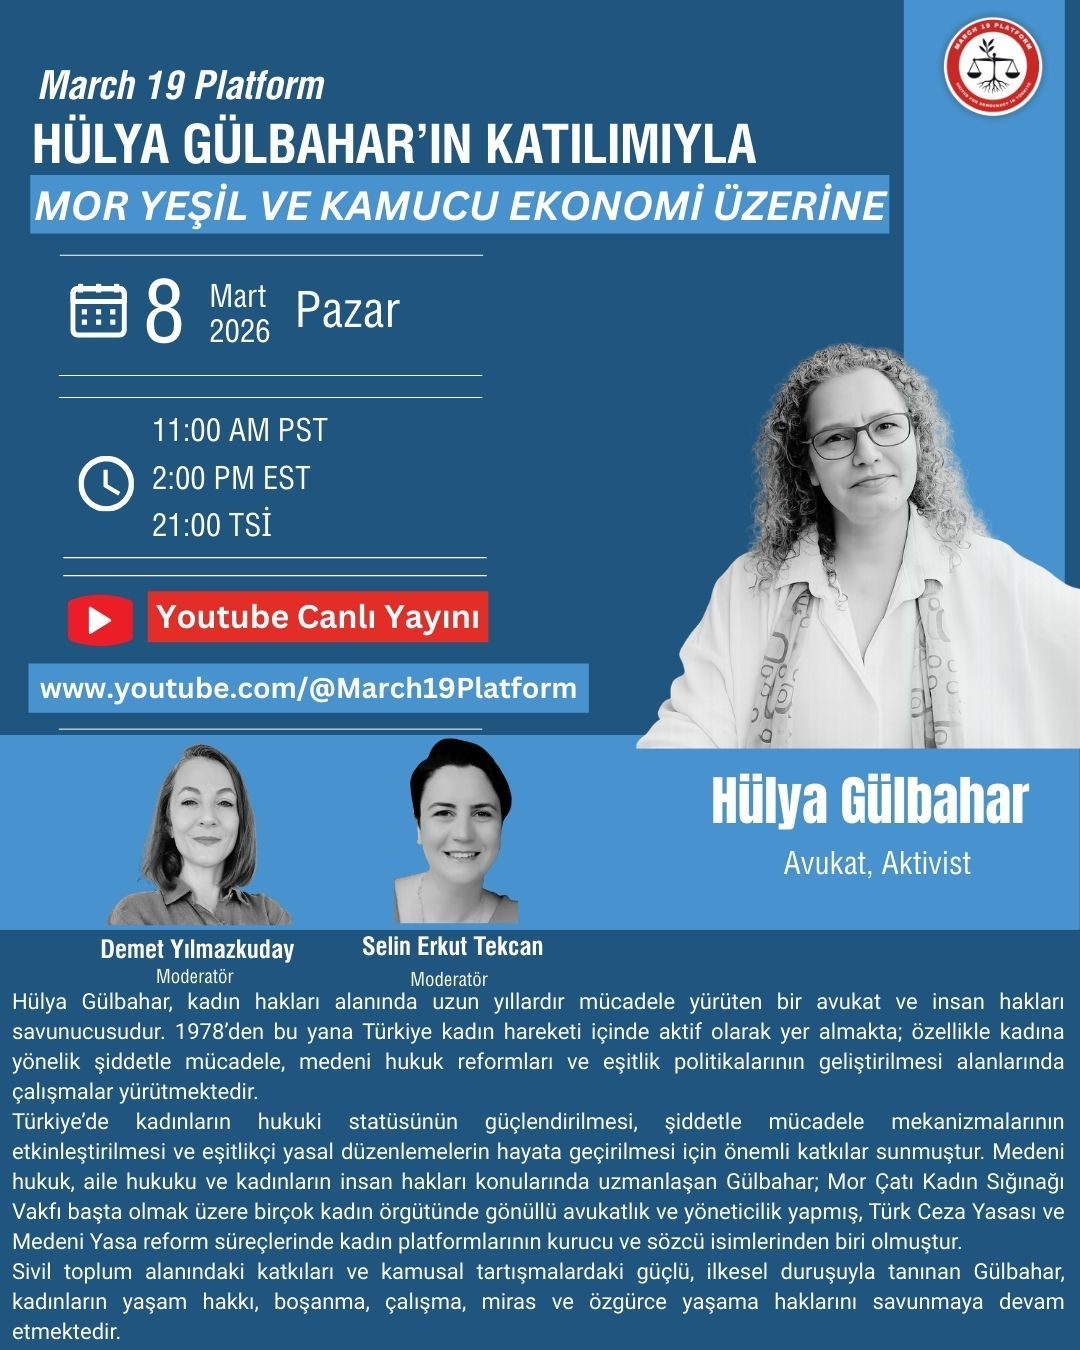
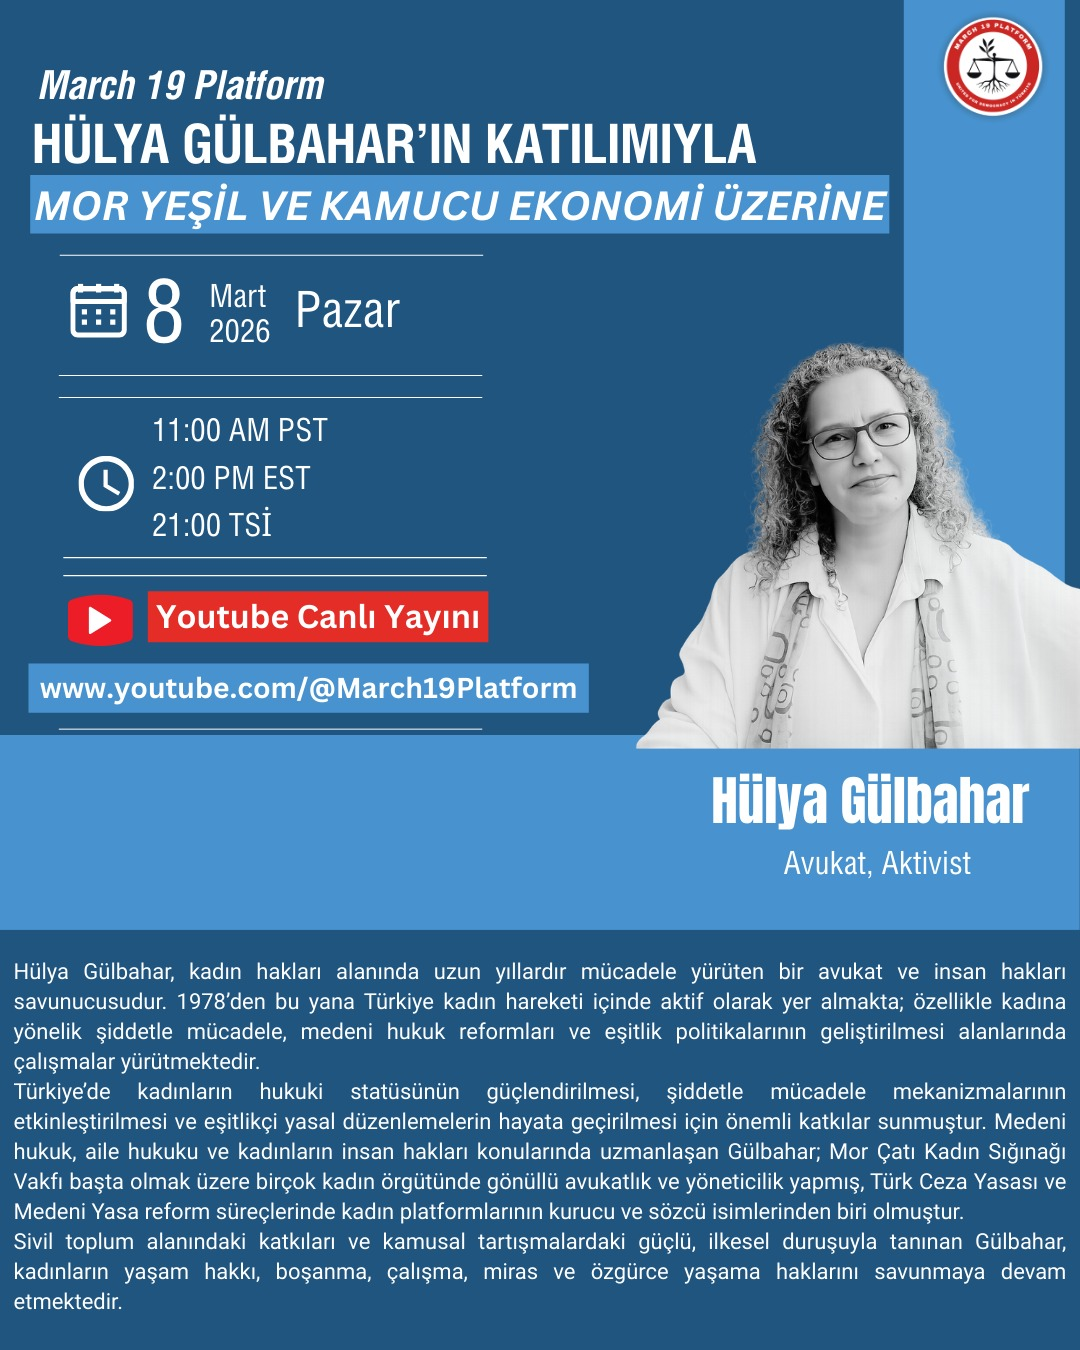
Update Hülya Gülbahar poster and link upcoming panels to YouTube live

diff --git a/content/videos/2026-03-08.md b/content/videos/2026-03-08.md
@@ -1,7 +1,7 @@
 ---
 title: "Hülya Gülbahar"
 date: 2026-03-08
-youtubeId: ""
+youtubeId: "WIwCM7ZRo2A"
 upcoming: true
 poster: "/assets/videos/posters/2026-03-08.jpg"
 panelist: "Hülya Gülbahar"
